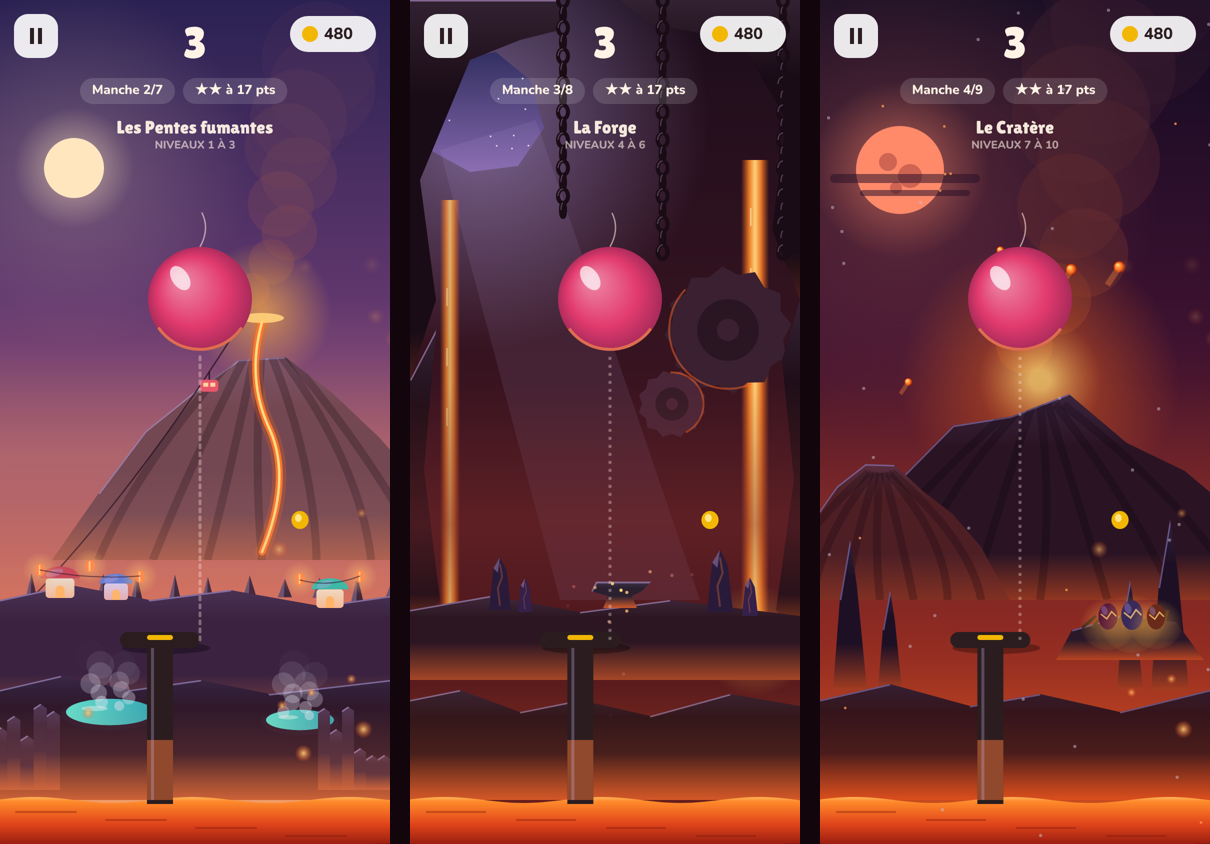
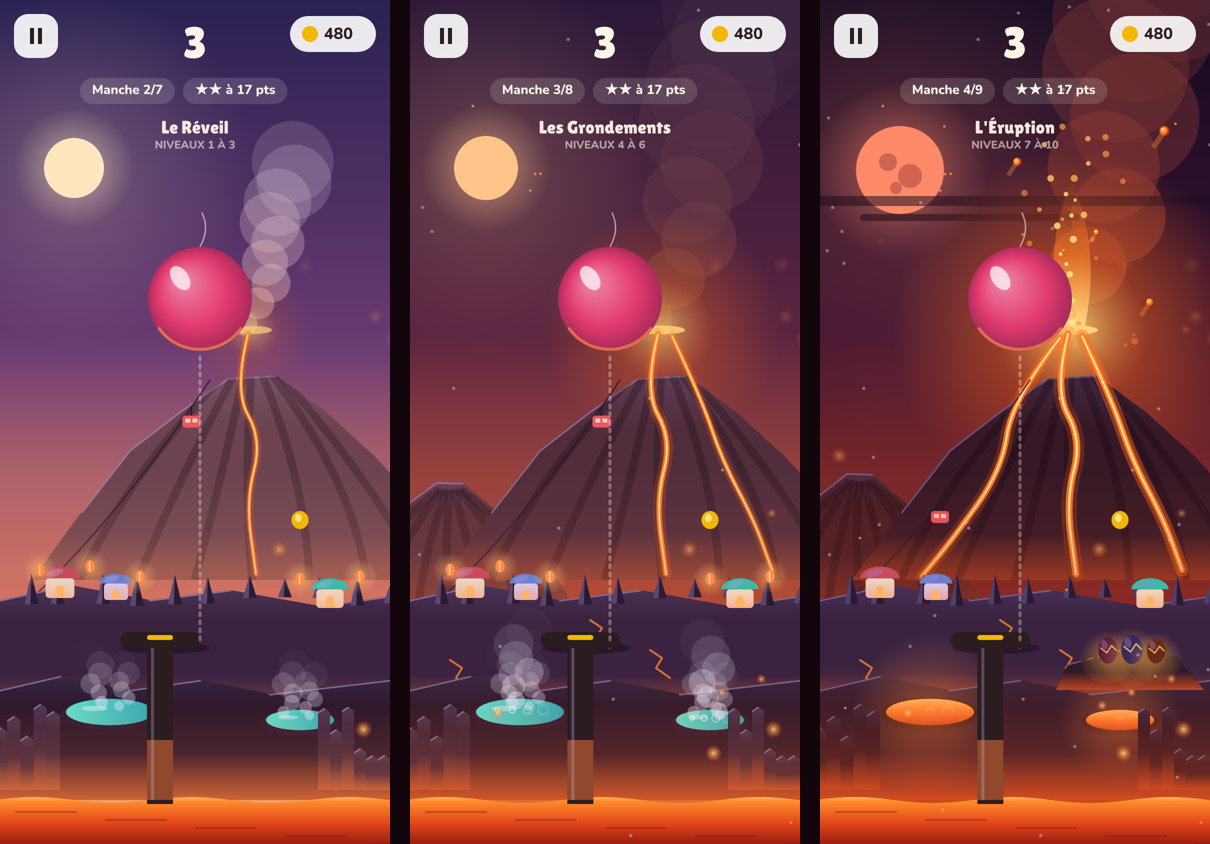
Monde 3 : maquettes v2, un seul volcan de plus en plus en ébullition (Réveil, Grondements, Éruption)
Claude-Session: https://claude.ai/code/session_01NEC92qwxswvqqiEaD4C6hh

diff --git a/design/brouillons/2026-11-17-volcan-maquettes.html b/design/brouillons/2026-11-17-volcan-maquettes.html
@@ -21,9 +21,9 @@ const LAVA_Y = 800;
 let BR = 1; /* respiration de la lave (0.85 → 1.15) */
 
 const ZONES = {
-  1: { name: 'Les Pentes fumantes', levels: 'Niveaux 1 à 3', sky: [[0, '#2a2152'], [.42, '#6a3b72'], [.72, '#d4705c'], [1, '#f6a66c']], sun: [74, 168, 30, '#ffe6bf'], rock: '#3a2440', rim: '#b9a6e6', warm: '#ff7a3a', haze: '#e08a72' },
-  2: { name: 'La Forge', levels: 'Niveaux 4 à 6', sky: [[0, '#1c0d1c'], [.5, '#3b1420'], [1, '#6a1e1a']], sun: [70, 120, 0, '#ffd2a0'], rock: '#2b1622', rim: '#c4a0d8', warm: '#ff6a2a', haze: '#7a2a2a' },
-  3: { name: 'Le Cratère', levels: 'Niveaux 7 à 10', sky: [[0, '#120a22'], [.4, '#3e1230'], [.75, '#8e2a22'], [1, '#d4521e']], sun: [80, 170, 44, '#ff8a6a'], rock: '#231226', rim: '#9a86d0', warm: '#ff5a1e', haze: '#a03a26' },
+  1: { name: 'Le Réveil', levels: 'Niveaux 1 à 3', sky: [[0, '#2a2152'], [.42, '#6a3b72'], [.72, '#d4705c'], [1, '#f6a66c']], sun: [74, 168, 30, '#ffe6bf'], rock: '#3a2440', rim: '#b9a6e6', warm: '#ff7a3a', haze: '#e08a72' },
+  2: { name: 'Les Grondements', levels: 'Niveaux 4 à 6', sky: [[0, '#2a1838'], [.4, '#5a2440'], [.72, '#b44a32'], [1, '#e2763c']], sun: [76, 168, 32, '#ffc48a'], rock: '#33203a', rim: '#b49ad8', warm: '#ff6a2a', haze: '#b85a44' },
+  3: { name: "L'Éruption", levels: 'Niveaux 7 à 10', sky: [[0, '#120a22'], [.4, '#3e1230'], [.75, '#8e2a22'], [1, '#d4521e']], sun: [80, 170, 44, '#ff8a6a'], rock: '#231226', rim: '#9a86d0', warm: '#ff5a1e', haze: '#a03a26' },
 };
 const ZN = ZONES[Z];
 
@@ -120,82 +120,67 @@ function lavaSea(t) {
   c.strokeStyle = 'rgba(120,20,10,0.35)'; c.lineWidth = 2; for (let i = 0; i < 5; i++) { const y = LAVA_Y + 12 + i * 8; c.beginPath(); c.moveTo(((t * .4 + i * 90) % (W + 80)) - 80, y); c.lineTo(((t * .4 + i * 90) % (W + 80)) - 20, y); c.stroke(); }
 }
 
-/* ===== zones ===== */
-function zone1(t) {
+/* ===== zones : le même volcan, de plus en plus en ébullition (K = 0, .5, 1) ===== */
+function lavaRiver(pts, w, a) { for (const [lw, col] of [[w * 2.2, rgba('#ff6a1a', .22 * a * BR)], [w, rgba('#ff7a2a', .92 * a)], [w * .35, rgba('#ffe08a', .95 * a)]]) {
+  c.strokeStyle = col; c.lineWidth = lw; c.lineCap = 'round'; c.lineJoin = 'round'; c.beginPath(); c.moveTo(pts[0][0], pts[0][1]);
+  for (let i = 1; i < pts.length - 1; i++) c.quadraticCurveTo(pts[i][0], pts[i][1], (pts[i][0] + pts[i + 1][0]) / 2, (pts[i][1] + pts[i + 1][1]) / 2);
+  c.lineTo(...pts[pts.length - 1]); c.stroke(); } }
+function lavaPool(x, y, w, t) {
+  c.fillStyle = '#1e0e18'; c.beginPath(); c.ellipse(x, y + 2, w + 5, w * .3 + 3, 0, 0, TAU); c.fill();
+  c.fillStyle = lg(y - w * .3, y + w * .3, [[0, '#ffd27a'], [.5, '#ff7a2a'], [1, '#c2361a']]); c.beginPath(); c.ellipse(x, y, w, w * .3, 0, 0, TAU); c.fill();
+  for (let i = 0; i < 3; i++) { const q = ((t * .02 + i / 3 + x * .01) % 1); c.strokeStyle = `rgba(255,240,190,${(.8 * (1 - q)).toFixed(3)})`; c.lineWidth = 1.2; c.beginPath(); c.arc(x + (i - 1) * w * .4, y, 2 + q * 6, Math.PI, TAU); c.stroke(); }
+  const g = c.createRadialGradient(x, y, 4, x, y, w * 1.8); g.addColorStop(0, rgba('#ff8a3a', .4 * BR)); g.addColorStop(1, rgba('#ff8a3a', 0)); c.fillStyle = g; c.beginPath(); c.arc(x, y, w * 1.8, 0, TAU); c.fill();
+}
+function bubblePool(x, y, w, t) { pool(x, y, w, t); for (let i = 0; i < 4; i++) { const q = ((t * .05 + i / 4) % 1); c.strokeStyle = `rgba(230,255,250,${(.9 * (1 - q)).toFixed(3)})`; c.lineWidth = 1.2; c.beginPath(); c.arc(x + (i - 1.5) * w * .35, y - 2, 2 + q * 4, 0, TAU); c.stroke(); }
+  steam(x, y - 4, 1.2, t * 1.6, x + 7); }
+function zoneV(t) {
+  const K = (Z - 1) / 2, VX = 252, VB = 580;
   sky(t);
-  // volcan lointain + panache
-  haze(300, 560, ZN.haze, .35);
-  smoke(262, 300, 1, t, 1, .45, '#5a3a60');
-  const g = c.createRadialGradient(262, 312, 4, 262, 312, 70); g.addColorStop(0, rgba('#ffb04a', .7 * BR)); g.addColorStop(1, rgba('#ffb04a', 0)); c.fillStyle = g; c.beginPath(); c.arc(262, 312, 70, 0, TAU); c.fill();
-  mountain(262, 560, 420, 250, 3, { col: mix(ZN.rock, ZN.haze, .35), warm: .35, crater: 1 });
-  for (const [lw, col] of [[14, rgba('#ff6a1a', .25 * BR)], [7, rgba('#ff7a2a', .9)], [2.5, rgba('#ffe08a', .95)]]) { c.strokeStyle = col; c.lineWidth = lw; c.lineCap = 'round'; c.beginPath(); c.moveTo(262, 322); c.quadraticCurveTo(246, 380, 270, 430); c.quadraticCurveTo(292, 480, 262, 552); c.stroke(); }
-  c.fillStyle = rgba('#ffd27a', .9); c.beginPath(); c.ellipse(262, 318, 22, 5, 0, 0, TAU); c.fill();
+  if (K === 1) { const [mx, my] = ZN.sun; c.fillStyle = 'rgba(120,30,40,0.35)'; for (const [dx, dy, r] of [[-12, -8, 9], [10, 6, 12], [-4, 18, 6]]) { c.beginPath(); c.arc(mx + dx, my + dy, r, 0, TAU); c.fill(); } }
+  // panache : vapeur blanche → fumée sombre → colonne d'éruption
+  if (K === 0) smoke(VX, 330, .7, t, 1, .5, '#d8c8e0');
+  else smoke(VX, 330, 1 + K * .7, t, 1, .5 + K * .15, K === 1 ? '#6a3038' : '#4a3450');
+  if (K === 1) { c.fillStyle = 'rgba(30,12,30,0.55)'; c.beginPath(); c.roundRect(-20, 196, W + 40, 10, 5); c.fill(); c.beginPath(); c.roundRect(40, 214, 220, 7, 4); c.fill(); }
+  const cg = c.createRadialGradient(VX, 330, 6, VX, 330, 60 + K * 120); cg.addColorStop(0, rgba('#ffcf6a', (.45 + K * .45) * BR)); cg.addColorStop(.4, rgba('#ff6a1a', (.15 + K * .3) * BR)); cg.addColorStop(1, rgba('#ff6a1a', 0));
+  c.fillStyle = cg; c.beginPath(); c.arc(VX, 330, 60 + K * 120, 0, TAU); c.fill();
+  if (K === 1) { for (let i = 0; i < 6; i++) { const q = ((t * .007 + i / 6) % 1), dir = i % 2 ? 1 : -1, x = VX + dir * q * (70 + i * 22), y = 320 - Math.sin(q * Math.PI) * (130 + i * 18) + q * 60; bomb(x, y, 3.5 + (i % 3), t); }
+    /* fontaine de lave : gerbe en éventail + cœur lumineux */
+    const fg = c.createLinearGradient(0, 180, 0, 330); fg.addColorStop(0, rgba('#ff6a1a', 0)); fg.addColorStop(.5, rgba('#ff8a2a', .55 * BR)); fg.addColorStop(1, rgba('#ffe08a', .95));
+    c.fillStyle = fg; c.beginPath(); c.moveTo(VX - 12, 330); c.quadraticCurveTo(VX - 30, 250, VX - 6 + Math.sin(t * .06) * 6, 180); c.quadraticCurveTo(VX + 30, 250, VX + 12, 330); c.fill();
+    for (let i = 0; i < 34; i++) { const q = ((t * (.012 + h1(i) * .01) + h1(i * 3)) % 1), vx = (h1(i * 7) - .5) * 160, vh = 110 + h1(i * 9) * 110;
+      const x = VX + vx * q, y = 330 - vh * (4 * q * (1 - q)) * 1.1 + q * 30, r = 1.6 + h1(i * 5) * 2.2;
+      c.fillStyle = `rgba(255,${(230 - q * 110) | 0},${(140 - q * 100) | 0},${(1 - q * .5).toFixed(3)})`; c.beginPath(); c.arc(x, y, r, 0, TAU); c.fill(); } }
+  haze(330, 580, ZN.haze, .25 + K * .1);
+  // le volcan (même silhouette dans les 3 zones)
+  if (K > 0) mountain(40, 600, 240, 120 + K * 20, 21, { col: mix(ZN.rock, ZN.haze, .3), warm: .3 });
+  mountain(VX, VB, 440, 252, 3, { col: mix(ZN.rock, ZN.haze, .3 - K * .15), warm: .3 + K * .2, crater: 1 });
+  c.fillStyle = rgba('#ffd27a', .7 + K * .3); c.beginPath(); c.ellipse(VX, 330, 20 + K * 6, 4 + K, 0, 0, TAU); c.fill();
+  // coulées : 1 → 2 → 3
+  lavaRiver([[VX - 4, 334], [VX - 18, 390], [VX + 10, 440], [VX - 6, 500], [VX + 4, VB - 6]], 4 + K * 3, 1);
+  if (K > 0) lavaRiver([[VX + 10, 336], [VX + 40, 400], [VX + 60, 460], [VX + 92, 520], [VX + 110, VB - 10]], 3 + K * 3, K * 2);
+  if (K === 1) lavaRiver([[VX - 12, 338], [VX - 60, 400], [VX - 70, 470], [VX - 120, 540], [VX - 150, VB - 4]], 6, 1);
+  cableCar(30, 600, 210, 380, K === 1 ? 0 : t); // à l'arrêt pendant l'éruption
+  haze(470, 640, ZN.haze, .2);
+  // pente moyenne : village (lanternes allumées → éteintes, fissures de lave)
+  rockShape([[0, 720], [0, 600], [70, 585], [150, 600], [230, 590], [320, 606], [390, 596], [390, 720]], { col: '#3a2240', warm: .4 + K * .25 });
   for (let i = 0; i < 11; i++) { const x = 20 + i * 36 + h1(i) * 14, y = 596 + h1(i * 2) * 10, hgt = 18 + h1(i * 5) * 16; c.fillStyle = '#2a1a34';
     c.beginPath(); c.moveTo(x - 7, y); c.lineTo(x, y - hgt); c.lineTo(x + 7, y); c.fill(); c.fillStyle = rgba(ZN.rim, .35); c.beginPath(); c.moveTo(x - 7, y); c.lineTo(x, y - hgt); c.lineTo(x - 1, y); c.fill(); }
-  cableCar(30, 600, 230, 340, t);
-  haze(470, 640, ZN.haze, .2);
-  // pente moyenne avec village thermal
-  rockShape([[0, 720], [0, 600], [70, 585], [150, 600], [230, 590], [320, 606], [390, 596], [390, 720]], { col: '#3a2240', warm: .4 });
   hut(60, 598, .9, '#e9d8c8', '#c94a5a', t); hut(116, 600, .75, '#d8c8e8', '#6a7fd0', t); hut(330, 608, .85, '#f0d8c0', '#3fb8a8', t);
-  for (const [x, y] of [[40, 570], [90, 566], [140, 576], [300, 580], [360, 576]]) lantern(x, y, .8, t);
-  c.strokeStyle = 'rgba(40,20,40,0.6)'; c.lineWidth = 1; c.beginPath(); c.moveTo(40, 570); c.quadraticCurveTo(90, 580, 140, 576); c.stroke(); c.beginPath(); c.moveTo(300, 580); c.quadraticCurveTo(330, 588, 360, 576); c.stroke();
-  // premier plan : sources chaudes turquoise + orgues basaltiques
+  if (K < 1) for (const [x, y] of [[40, 570], [90, 566], [140, 576], [300, 580], [360, 576]]) lantern(x, y, .8, t);
+  if (K > 0) { c.strokeStyle = rgba('#ff8a2a', .8 * BR); c.lineWidth = 2; for (const [x0, y0] of [[180, 620], [240, 650], [40, 660]]) { c.beginPath(); c.moveTo(x0, y0); c.lineTo(x0 + 12, y0 + 8); c.lineTo(x0 + 6, y0 + 18); c.lineTo(x0 + 20, y0 + 28); c.stroke(); } }
+  // premier plan : sources turquoise → qui bouillonnent → devenues lave
   rockShape([[0, 800], [0, 690], [60, 676], [130, 690], [200, 680], [270, 694], [390, 680], [390, 800]], { col: '#26142a', warm: .7 });
-  pool(110, 712, 44, t); pool(300, 720, 34, t);
+  if (K === 0) { pool(110, 712, 44, t); pool(300, 720, 34, t); }
+  else if (K === .5) { bubblePool(110, 712, 44, t); bubblePool(300, 720, 34, t); }
+  else { lavaPool(110, 712, 44, t); lavaPool(300, 720, 34, t); }
   basalt(-6, 790, 5, 1.1); basalt(318, 790, 6, 1);
-  lavaGlow(LAVA_Y, 110, .3); lavaSea(t); embers(t, 14);
+  if (K === 1) { rockShape([[236, 690], [248, 664], [300, 650], [356, 656], [384, 690]], { col: '#2a1828', warm: .7 });
+    c.strokeStyle = '#3a2418'; c.lineWidth = 3; for (let i = 0; i < 9; i++) { c.beginPath(); c.moveTo(262 + i * 10, 662); c.lineTo(276 + i * 9, 650 - (i % 3) * 3); c.stroke(); }
+    for (const [x, col, s2] of [[288, '#5a1a3a', 1.2], [312, '#3a2a5a', 1.35], [336, '#6a2a1a', 1.15]]) egg(x, 660, s2, t, col); }
+  lavaGlow(LAVA_Y, 110 + K * 30, .3 + K * .08); lavaSea(t);
+  if (K === 0) embers(t, 6); else if (K === .5) { ash(t, 18); embers(t, 12); } else { ash(t, 46); embers(t, 18); }
 }
-function zone2(t) {
-  sky(t);
-  // ouverture de la grotte en haut à gauche (la lumière froide vient de là)
-  const og = c.createRadialGradient(70, 120, 10, 70, 120, 230); og.addColorStop(0, 'rgba(200,180,255,0.45)'); og.addColorStop(1, 'rgba(200,180,255,0)'); c.fillStyle = og; c.fillRect(0, 0, W, H);
-  c.fillStyle = lg(40, 180, [[0, '#2a2a5a'], [1, '#8a6ab0']]); c.beginPath(); [[20, 150], [10, 96], [40, 60], [86, 52], [120, 80], [134, 128], [108, 166], [60, 172]].forEach(([x, y], i) => i ? c.lineTo(x, y) : c.moveTo(x, y)); c.fill();
-  for (let i = 0; i < 12; i++) { c.fillStyle = 'rgba(255,255,255,0.8)'; c.beginPath(); c.arc(30 + h1(i) * 90, 70 + h1(i * 3) * 80, .9, 0, TAU); c.fill(); }
-  c.fillStyle = 'rgba(210,190,255,0.09)'; c.beginPath(); c.moveTo(30, 150); c.lineTo(150, 600); c.lineTo(290, 600); c.lineTo(126, 120); c.fill(); // rai de lumière
-  // cascades de lave au fond
-  lavaFall(40, 200, 640, 10, t, .8); lavaFall(345, 160, 640, 14, t);
-  // engrenages et chaînes
-  gear(318, 330, 56, t, 1, '#3a2030'); gear(262, 404, 30, t, -1.9, '#4a2638');
-  // parois de la grotte qui cadrent la scène
-  rockShape([[0, 0], [150, 0], [150, 30], [110, 40], [60, 60], [10, 180], [26, 300], [0, 380]], { col: '#1a0c16', warm: .2 });
-  rockShape([[390, 0], [210, 0], [240, 24], [330, 40], [376, 120], [362, 230], [390, 300]], { col: '#1a0c16', warm: .2 });
-  rockShape([[0, 380], [26, 330], [14, 470], [30, 600], [0, 640]], { col: '#1e0e18', warm: .7 });
-  rockShape([[390, 300], [372, 360], [384, 480], [366, 610], [390, 640]], { col: '#1e0e18', warm: .7 });
-  for (const x of [150, 250, 370]) chain(x, 0, 220 + (x % 3) * 40, t);
-  haze(380, 620, ZN.haze, .45);
-  // sol de la forge
-  rockShape([[0, 680], [0, 610], [80, 596], [170, 612], [260, 600], [390, 616], [390, 680]], { warm: .6 });
-  crystal(90, 610, 1.1, t, '#2a1a3a'); crystal(115, 612, .7, t, '#34204a'); crystal(310, 612, 1.3, t, '#2a1a3a'); crystal(340, 616, .8, t, '#34204a');
-  anvil(210, 608, 1.2);
-  // premier plan
-  rockShape([[0, 800], [0, 700], [50, 690], [110, 712], [170, 700], [240, 716], [320, 694], [390, 706], [390, 800]], { col: '#1e0e18', warm: .75 });
-  lavaGlow(LAVA_Y, 120, .32); lavaSea(t);
-  // étincelles
-  for (let i = 0; i < 14; i++) { const q = ((t * .02 + i / 14) % 1), x = 210 + Math.cos(i * 2.3) * q * 90, y = 590 - Math.sin(i * 1.7 + 1) * q * 80 + q * q * 60;
-    c.fillStyle = `rgba(255,${(220 - q * 120) | 0},120,${(1 - q).toFixed(3)})`; c.beginPath(); c.arc(x, y, 1.6, 0, TAU); c.fill(); }
-}
-function zone3(t) {
-  sky(t);
-  // colonne d'éruption + bombes de lave
-  smoke(220, 360, 1.6, t, 5, .55, '#3a2034');
-  const ce = c.createRadialGradient(220, 380, 10, 220, 380, 140); ce.addColorStop(0, rgba('#ffcf6a', .85 * BR)); ce.addColorStop(.4, rgba('#ff6a1a', .35 * BR)); ce.addColorStop(1, rgba('#ff6a1a', 0)); c.fillStyle = ce; c.beginPath(); c.arc(220, 380, 140, 0, TAU); c.fill();
-  for (let i = 0; i < 4; i++) { const q = ((t * .006 + i / 4) % 1), dir = i % 2 ? 1 : -1, x = 220 + dir * q * (90 + i * 25), y = 380 - Math.sin(q * Math.PI) * (150 + i * 20) + q * 40; bomb(x, y, 4 + (i % 2) * 2, t); }
-  haze(380, 600, ZN.haze, .35);
-  mountain(220, 600, 520, 230, 9, { col: '#2a1424', warm: .5, crater: 1 });
-  { const [mx, my, mr] = ZN.sun; c.fillStyle = 'rgba(120,30,40,0.35)'; for (const [dx, dy, r] of [[-12, -8, 9], [10, 6, 12], [-4, 18, 6]]) { c.beginPath(); c.arc(mx + dx, my + dy, r, 0, TAU); c.fill(); }
-    c.fillStyle = 'rgba(40,16,40,0.55)'; c.beginPath(); c.roundRect(mx - 70, my + 4, 150, 9, 5); c.fill(); c.beginPath(); c.roundRect(mx - 40, my + 20, 110, 6, 3); c.fill(); }
-  mountain(60, 600, 260, 150, 21, { col: mix('#2a1424', ZN.haze, .3), warm: .3 });
-  // flèches d'obsidienne
-  for (const [x, h, w] of [[30, 150, 34], [70, 100, 24], [350, 170, 38], [310, 110, 26]]) rockShape([[x - w / 2, 690], [x - w * .3, 690 - h * .6], [x, 690 - h], [x + w * .2, 690 - h * .7], [x + w / 2, 690]], { col: '#1e1024', warm: .6 });
-  // nid du dragon avec œufs (secret)
-  rockShape([[236, 660], [252, 630], [300, 616], [356, 622], [384, 660]], { col: '#2a1828', warm: .7 });
-  c.strokeStyle = '#3a2418'; c.lineWidth = 3; for (let i = 0; i < 9; i++) { c.beginPath(); c.moveTo(262 + i * 10, 628); c.lineTo(276 + i * 9, 616 - (i % 3) * 3); c.stroke(); }
-  for (const [x, col, s2] of [[288, '#5a1a3a', 1.2], [312, '#3a2a5a', 1.35], [336, '#6a2a1a', 1.15]]) egg(x, 626, s2, t, col);
-  // bord du cratère au premier plan
-  rockShape([[0, 800], [0, 700], [70, 684], [150, 706], [220, 694], [300, 712], [390, 690], [390, 800]], { col: '#1c0c1a', warm: .8 });
-  lavaGlow(LAVA_Y, 130, .34); lavaSea(t); ash(t, 40); embers(t, 10);
-}
-
+const zone1 = zoneV, zone2 = zoneV, zone3 = zoneV;
 /* jouables + HUD */
 function platform(x, y) {
   c.fillStyle = 'rgba(0,0,0,0.3)'; c.beginPath(); c.ellipse(x + 6, y + 8, 44, 6, 0, 0, TAU); c.fill();
